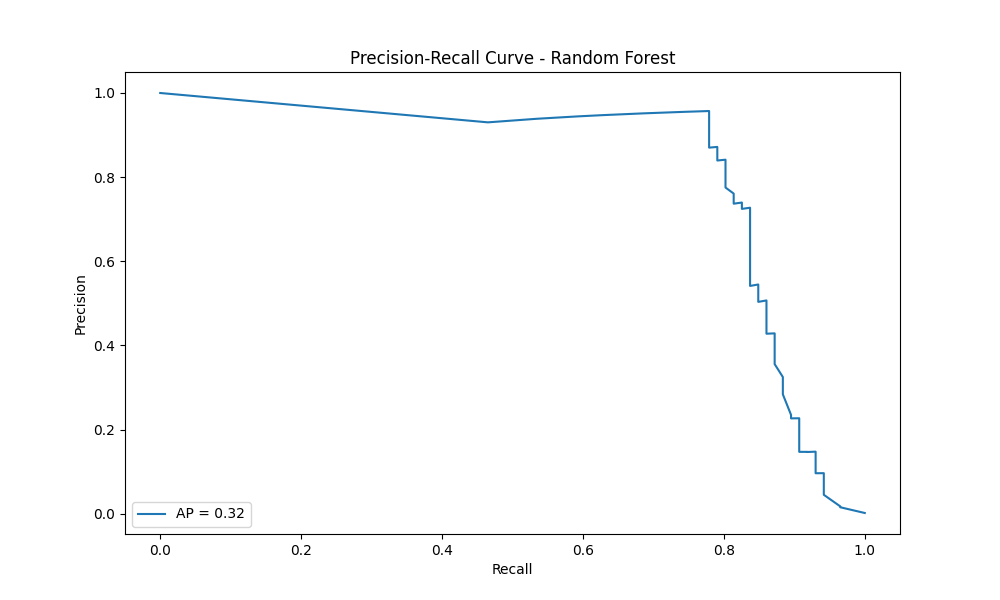
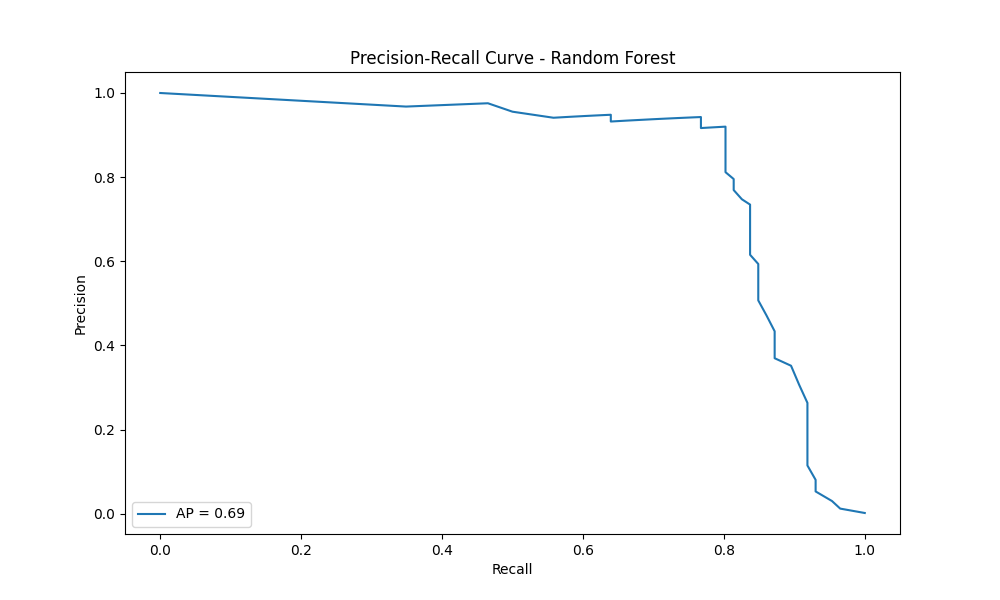
new

diff --git a/preprocessing/preprocess.py b/preprocessing/preprocess.py
@@ -1,16 +1,15 @@
 import pandas as pd
 from sklearn.preprocessing import MinMaxScaler
-from imblearn.combine import SMOTETomek
+from imblearn.over_sampling import SMOTE
 from sklearn.model_selection import train_test_split
 from utils.logger import setup_logger
-from tqdm import tqdm
 
 logger = setup_logger(__name__)
 
 def load_data(file_path):
     logger.info("Loading data from file: %s", file_path)
     df = pd.read_csv(file_path)
-    #df = df.sample(frac=0.3, random_state=25)  # Use 30% of the data to avoid SMOTETomek issues
+    # df = df.sample(frac=0.3, random_state=25)  # Use 30% of the data to avoid memory issues
     logger.info("Data loaded. Shape: %s", df.shape)
     return df
 
@@ -29,22 +28,10 @@ def preprocess_data(df):
         X_train, X_test, y_train, y_test = train_test_split(X, y, test_size=0.2, random_state=25)
         logger.info(f"Data split into train and test sets. X_train shape: {X_train.shape}, X_test shape: {X_test.shape}, y_train shape: {y_train.shape}, y_test shape: {y_test.shape}")
 
-        logger.info("Applying SMOTETomek...")
-        preprocessor = SMOTETomek(random_state=25)
-        total_chunks = 10
-        chunk_size = len(X_train) // total_chunks
-        X_train_res = pd.DataFrame()
-        y_train_res = pd.Series(dtype='int')
-
-        for i in tqdm(range(total_chunks), desc="Applying SMOTETomek", ncols=100):
-            start_index = i * chunk_size
-            end_index = (i + 1) * chunk_size if i < total_chunks - 1 else len(X_train)
-
-            X_chunk, y_chunk = preprocessor.fit_resample(X_train.iloc[start_index:end_index], y_train.iloc[start_index:end_index])
-            X_train_res = pd.concat([X_train_res, X_chunk])
-            y_train_res = pd.concat([y_train_res, y_chunk])
-
-        logger.info(f"Applied SMOTETomek. Resampled X_train shape: {X_train_res.shape}, y_train shape: {y_train_res.shape}")
+        logger.info("Applying SMOTE...")
+        smote = SMOTE(random_state=25)
+        X_train_res, y_train_res = smote.fit_resample(X_train, y_train)
+        logger.info(f"Applied SMOTE. Resampled X_train shape: {X_train_res.shape}, y_train shape: {y_train_res.shape}")
 
         logger.info("Scaling features...")
         scaler = MinMaxScaler(feature_range=(-1, 1)).fit(X_train_res)

diff --git a/main.py b/main.py
@@ -2,7 +2,7 @@ import json
 import logging
 from utils import setup_logger, log_memory_usage
 from preprocessing import load_data, preprocess_data
-from models.classifiers import train_and_evaluate, hyperparameter_tuning, cross_validate_models, all_classifiers, analyze_first_fold
+from models.classifiers import train_and_evaluate, hyperparameter_tuning, cross_validate_models, all_classifiers
 from models.ensemble import train_and_evaluate_voting_classifier
 
 logger = setup_logger(__name__, log_file='results.log', console_level=logging.INFO, file_level=logging.INFO)
@@ -28,17 +28,13 @@ if __name__ == "__main__":
         log_memory_usage(logger)
 
         logger.info("Loading dataset...")
-        path_home='C:\\Users\\ke1no\\OneDrive - Sheffield Hallam University\\Year3\\Disseration\\Dataset-Approved\\creditcard.csv'
-        path_library='C:\\Users\\c0003255\\OneDrive - Sheffield Hallam University\\Year3\\Disseration\\Dataset-Approved\\creditcard.csv'
-        df = load_data(path_library)
+        path_home = 'C:\\Users\\ke1no\\OneDrive - Sheffield Hallam University\\Year3\\Disseration\\Dataset-Approved\\creditcard.csv'
+        path_library = 'C:\\Users\\c0003255\\OneDrive - Sheffield Hallam University\\Year3\\Disseration\\Dataset-Approved\\creditcard.csv'
+        df = load_data(path_home)  # Change to path_library if running from the library
         log_memory_usage(logger)
 
         logger.info("Preprocessing data...")
         X_train, X_test, y_train, y_test, X, y = preprocess_data(df)
-        log_memory_usage(logger)
-
-        #logger.info("Analyzing the first fold...")
-        #analyze_first_fold(X, y)
         log_memory_usage(logger)
 
         best_estimators = {}

diff --git a/models/classifiers.py b/models/classifiers.py
@@ -14,7 +14,7 @@ logger = setup_logger(__name__)
 
 # Define all classifiers
 all_classifiers = {
-    'Random Forest': RandomForestClassifier(max_depth=100, min_samples_split=5,n_estimators=50)
+    'Random Forest': RandomForestClassifier()#max_depth=100, min_samples_split=5,n_estimators=50)
 }
 
 def analyze_first_fold(X, y):
